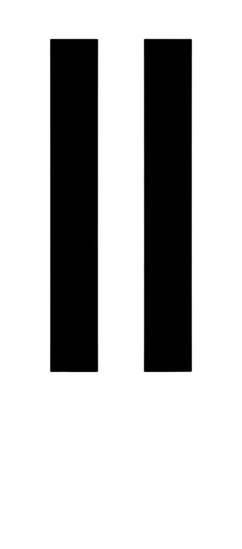
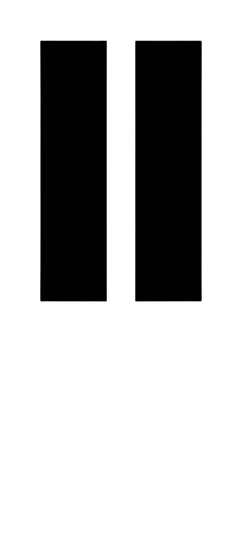
Fixed S836 and F848 Glass Mappings

Changed region(s): [[0.1446, 0.0619, 0.4628, 0.6812], [0.5496, 0.0619, 0.8388, 0.6812]]

diff --git a/src/App.tsx b/src/App.tsx
@@ -175,7 +175,10 @@ export default function App() {
   const supportsGlass = Boolean(compatibilitySupportsGlass && availableGlass.some((option) => option.id !== 'clear'))
   const steps = supportsGlass ? glassSteps : noGlassSteps
   const selectedGlass = supportsGlass ? glass : null
-  const previewGlass = supportsGlass ? glass : null
+  const clearOnlyGlass = !supportsGlass && compatibilitySupportsGlass
+    ? availableGlass.find((option) => option.id === 'clear') ?? null
+    : null
+  const previewGlass = supportsGlass ? glass : selectedHardware ? clearOnlyGlass : null
   const glassOptionGroups = [...availableGlass.reduce((groups, option) => {
     const key = glassGroupKey(option)
     const group = groups.get(key) ?? { key, title: glassGroupTitle(option), options: [] }

diff --git a/src/components/DoorPreview.tsx b/src/components/DoorPreview.tsx
@@ -96,9 +96,7 @@ export function DoorPreview({ style, finish, glass, hardware, compact = false, g
   const finishMask = previewImage && processedMask?.source === previewImage ? processedMask.finishUrl : undefined
   const glassMask = previewImage && processedMask?.source === previewImage ? processedMask.glassUrl : undefined
   const compatibleGlass = isGlassCapable ? glassOptions.filter((option) => styleCodes.some((code) => option.overlaysByDoorStyle[code])) : []
-  const previewGlass = glass && compatibleGlass.some((option) => option.id === glass.id)
-    ? glass
-    : compatibleGlass.find((option) => option.id === 'clear') ?? compatibleGlass[0]
+  const previewGlass = glass && compatibleGlass.some((option) => option.id === glass.id) ? glass : null
   const glassOverlay = previewGlass ? styleCodes.map((code) => previewGlass.overlaysByDoorStyle[code]).find(Boolean) : undefined
   const [internalPreviewView, setInternalPreviewView] = useState<HardwareView>('Exterior')
   const previewView = view ?? internalPreviewView